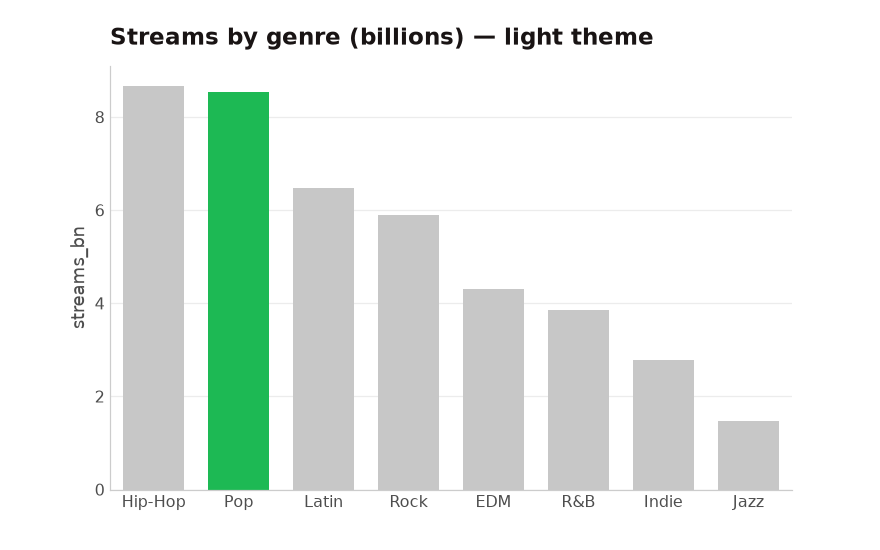
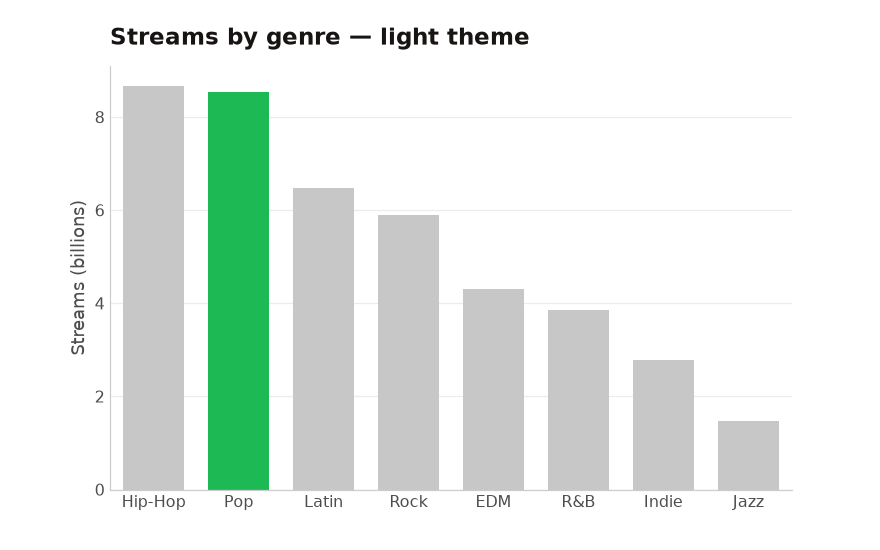
Add xlabel/ylabel overrides to helpers; tidy demo labels
- bar/line/scatter accept explicit xlabel=/ylabel= that override the
  auto-labels derived from column names
- demo uses human-readable axis labels (e.g. "Streams (billions)")

Claude-Session: https://claude.ai/code/session_01HoPvfNzWSb4bZWodumAQL8

Changed region(s): [[0.3989, 0.0309, 0.7364, 0.0927], [0.0614, 0.3709, 0.1227, 0.6491]]

diff --git a/examples/demo.py b/examples/demo.py
@@ -26,40 +26,46 @@ def main():
 
     # 1) Bar (dark, default): highlight one category in green, rest muted.
     ax = sv.bar(genres, x="genre", y="streams_bn", sort="desc",
-                highlight="Pop", title="Streams by genre (billions)")
+                highlight="Pop", title="Streams by genre",
+                ylabel="Streams (billions)")
     sv.savefig(ax.figure, HERE / "bar_dark.png")
     plt.close(ax.figure)
 
     # 2) Bar (report/presentation): horizontal, sorted, value labels.
     ax = sv.bar(genres, x="genre", y="streams_bn", sort="desc",
                 orient="horizontal", presentation=True,
-                highlight="Pop", title="Streams by genre (billions)")
+                highlight="Pop", title="Streams by genre",
+                xlabel="Streams (billions)")
     sv.savefig(ax.figure, HERE / "bar_report.png")
     plt.close(ax.figure)
 
     # 3) Line (dark): multi-series with the categorical palette + direct labels.
     ax = sv.line(listeners, x="month",
-                 title="Monthly listeners (millions)")
+                 title="Monthly listeners",
+                 xlabel="Month", ylabel="Listeners (millions)")
     sv.savefig(ax.figure, HERE / "line_dark.png")
     plt.close(ax.figure)
 
     # 4) Line (dark): emphasize one series in green, mute the rest.
     ax = sv.line(listeners, x="month", highlight="Aurora Skye",
-                 title="Monthly listeners — Aurora Skye leads")
+                 title="Monthly listeners — Aurora Skye leads",
+                 xlabel="Month", ylabel="Listeners (millions)")
     sv.savefig(ax.figure, HERE / "line_highlight.png")
     plt.close(ax.figure)
 
     # 5) Scatter (dark): size by area, color by a continuous feature (viridis).
     ax = sv.scatter(tracks, x="energy", y="danceability",
                     size="popularity", color="popularity",
-                    title="Audio features (size & color = popularity)")
+                    title="Audio features (size & color = popularity)",
+                    xlabel="Energy", ylabel="Danceability")
     sv.savefig(ax.figure, HERE / "scatter_dark.png")
     plt.close(ax.figure)
 
     # 6) Light variant: same bar, one argument away.
     ax = sv.bar(genres, x="genre", y="streams_bn", sort="desc",
                 theme="light", highlight="Pop",
-                title="Streams by genre (billions) — light theme")
+                title="Streams by genre — light theme",
+                ylabel="Streams (billions)")
     sv.savefig(ax.figure, HERE / "bar_light.png")
     plt.close(ax.figure)
 

diff --git a/src/spotviz/bar.py b/src/spotviz/bar.py
@@ -26,6 +26,8 @@ def bar(
     sort=None,
     label_values=None,
     title=None,
+    xlabel=None,
+    ylabel=None,
     **kwargs,
 ):
     """Draw a clean, on-brand bar chart from a DataFrame or Series.
@@ -57,6 +59,8 @@ def bar(
         Draw value labels at the bar ends. Defaults to True in ``presentation``.
     title : str, optional
         Axes title (left-aligned).
+    xlabel, ylabel : str, optional
+        Override the auto axis labels (from the column names).
     **kwargs
         Passed through to matplotlib's ``bar``/``barh``.
 
@@ -67,7 +71,7 @@ def bar(
     if orient not in ("vertical", "horizontal"):
         raise ValueError("orient must be 'vertical' or 'horizontal'.")
 
-    cats, vals, xlabel, ylabel = resolve_xy(data, x, y)
+    cats, vals, x_auto, y_auto = resolve_xy(data, x, y)
     cats = [str(c) for c in cats]
     pairs = list(zip(cats, vals))
 
@@ -102,17 +106,23 @@ def bar(
         ax.bar(positions, vals, color=colors, width=0.72, **kwargs)
         ax.set_xticks(list(positions))
         ax.set_xticklabels(cats)
-        ax.set_ylabel(ylabel)
+        ax.set_ylabel(y_auto)
         ax.margins(x=0.02)
         grid_axis = "y"
     else:
         ax.barh(positions, vals, color=colors, height=0.72, **kwargs)
         ax.set_yticks(list(positions))
         ax.set_yticklabels(cats)
-        ax.set_xlabel(ylabel)
+        ax.set_xlabel(y_auto)
         ax.invert_yaxis()  # first category on top
         ax.margins(y=0.02)
         grid_axis = "x"
+
+    # Explicit label overrides win over the auto-labels from the columns.
+    if xlabel is not None:
+        ax.set_xlabel(xlabel)
+    if ylabel is not None:
+        ax.set_ylabel(ylabel)
 
     finalize(ax, theme=theme, presentation=presentation,
              grid_axis=grid_axis, title=title)

diff --git a/src/spotviz/line.py b/src/spotviz/line.py
@@ -26,6 +26,8 @@ def line(
     accent=None,
     direct_label=True,
     title=None,
+    xlabel=None,
+    ylabel=None,
     **kwargs,
 ):
     """Draw a clean, on-brand line chart from a DataFrame.
@@ -61,14 +63,14 @@ def line(
     if isinstance(data, pd.Series):
         xvals = list(data.index)
         series = [(str(data.name or "value"), data.to_numpy())]
-        xlabel = str(data.index.name or "")
+        x_auto = str(data.index.name or "")
     elif isinstance(data, pd.DataFrame):
         if x is not None:
             xvals = data[x].to_numpy()
-            xlabel = str(x)
+            x_auto = str(x)
         else:
             xvals = list(data.index)
-            xlabel = str(data.index.name or "")
+            x_auto = str(data.index.name or "")
         if y is None:
             cols = [c for c in data.select_dtypes("number").columns if c != x]
         else:
@@ -108,7 +110,11 @@ def line(
         ax.plot(xvals, yvals, color=colors[name], linewidth=s["linewidth"],
                 solid_capstyle="round", zorder=z[name], **kwargs)
 
-    ax.set_xlabel(xlabel)
+    ax.set_xlabel(x_auto)
+    if xlabel is not None:
+        ax.set_xlabel(xlabel)
+    if ylabel is not None:
+        ax.set_ylabel(ylabel)
     ax.margins(x=0.02)
     finalize(ax, theme=theme, presentation=presentation, grid_axis="y",
              title=title)

diff --git a/src/spotviz/scatter.py b/src/spotviz/scatter.py
@@ -29,6 +29,8 @@ def scatter(
     accent=None,
     alpha=0.85,
     title=None,
+    xlabel=None,
+    ylabel=None,
     colorbar=True,
     **kwargs,
 ):
@@ -94,8 +96,8 @@ def scatter(
         ax.scatter(xvals, yvals, s=s_area, color=point, alpha=alpha,
                    edgecolors="none", **kwargs)
 
-    ax.set_xlabel(str(x))
-    ax.set_ylabel(str(y))
+    ax.set_xlabel(xlabel if xlabel is not None else str(x))
+    ax.set_ylabel(ylabel if ylabel is not None else str(y))
     # Scatter reads best with no grid (or a faint one); default to none.
     finalize(ax, theme=theme, presentation=presentation, grid_axis=None,
              title=title)
